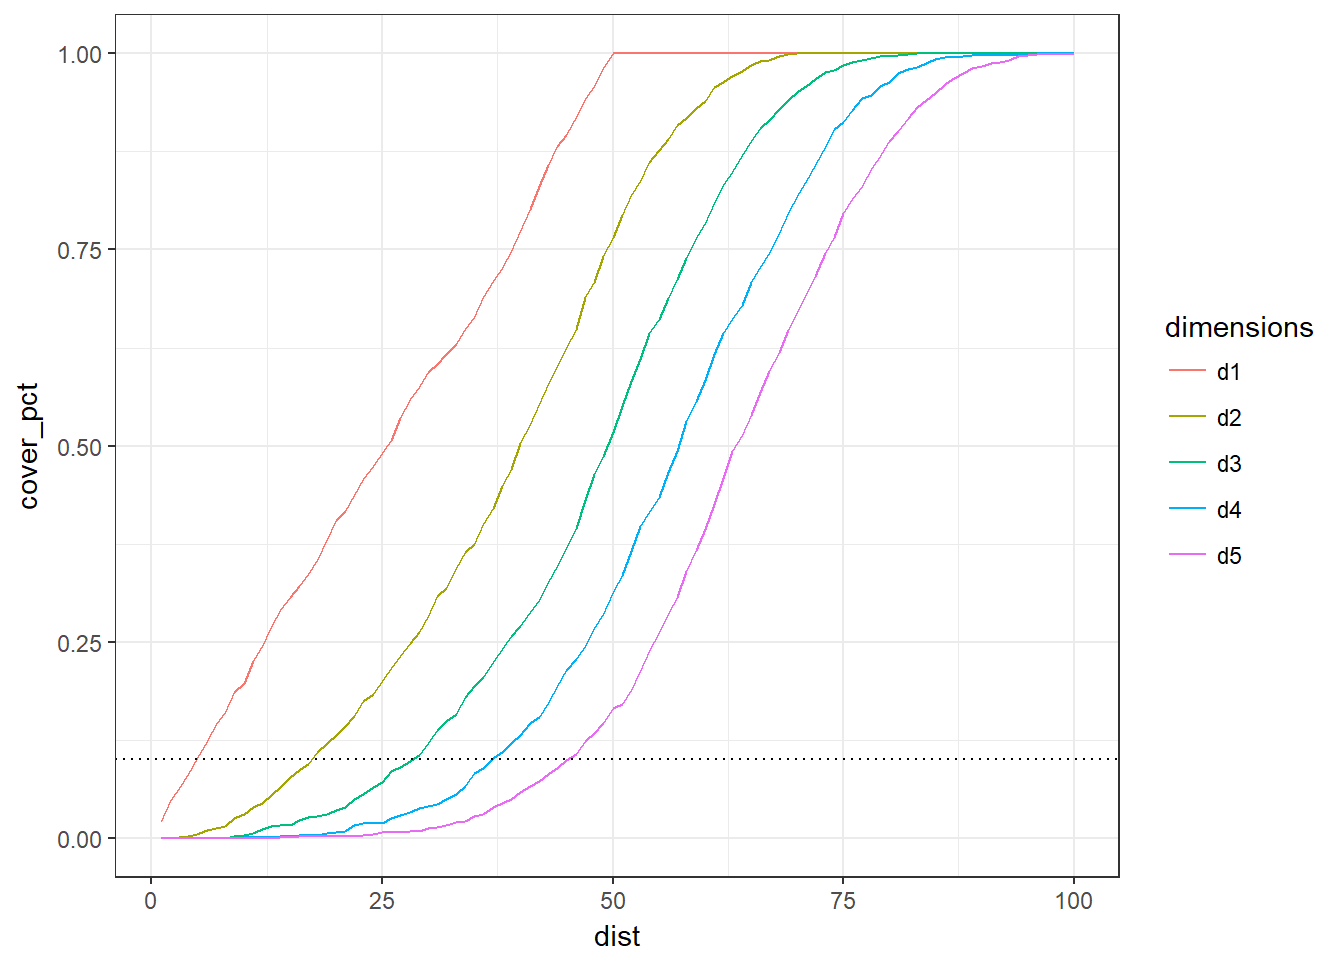
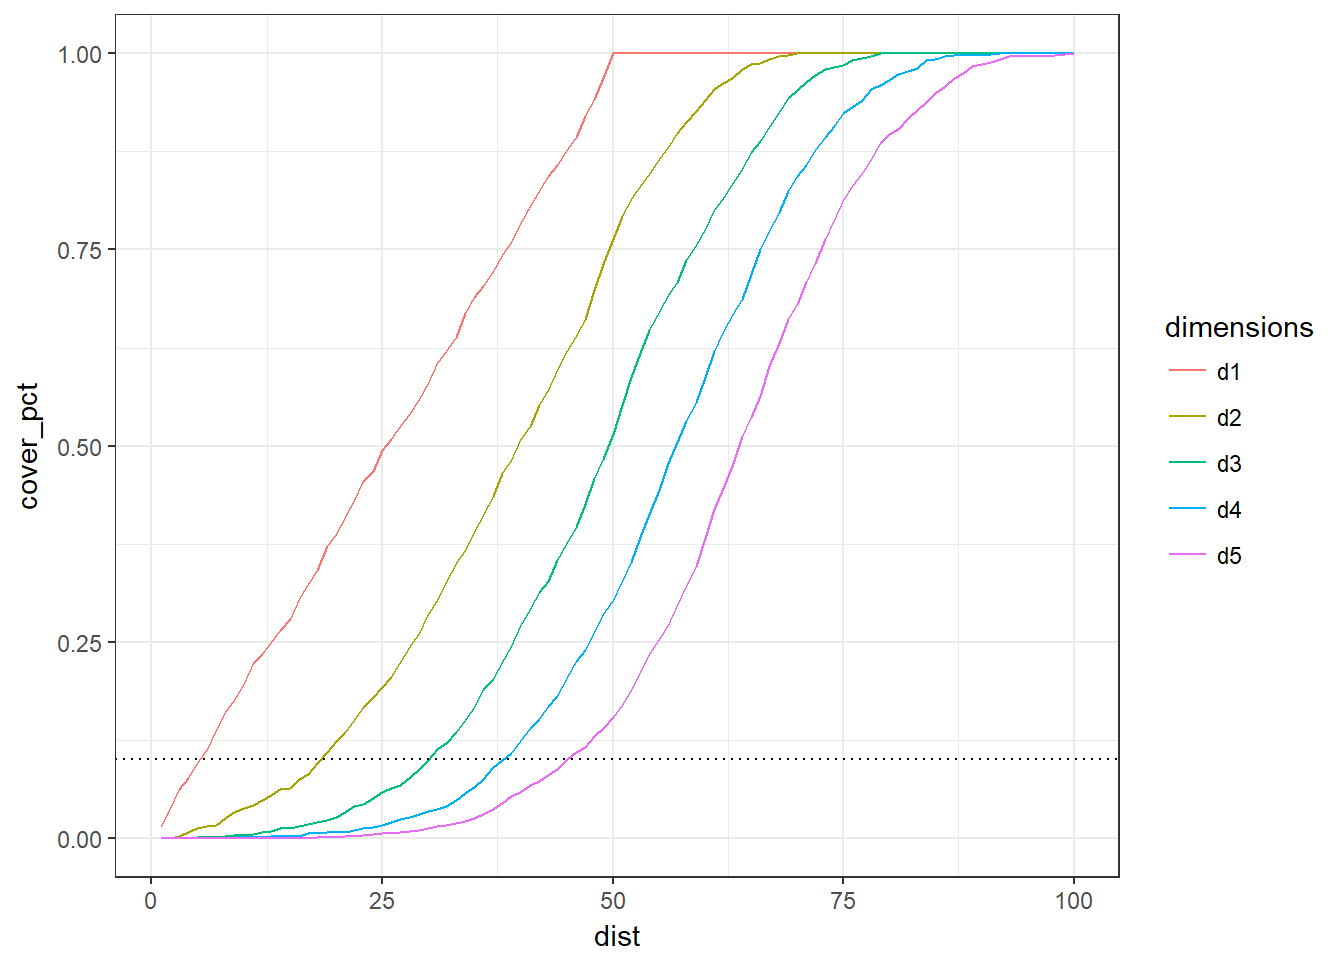
updating site with new post

diff --git a/content/post/2018-01-16-ploting-your-mtb-track-with-r.html b/content/post/2018-01-16-ploting-your-mtb-track-with-r.html
@@ -3,9 +3,9 @@ title: "Ploting your MTB track with R"
 author: "Giuliano Sposito"
 date: '2018-01-16'
 coverImage: /images/mtb_cover.jpg
-disqusIdentifier: rstatreadingtcxfiles
+disqusIdentifier: rstatplottcxtrack
 metaAlignment: center
-slug: reading-your-run-and-mtb-tracks-with-r
+slug: ploting-your-mtb-track-with-r
 tags:
 - gps
 - workout
@@ -140,11 +140,11 @@ print(track)</code></pre>
 
 ggplot(track, aes(x=dt, y=hbpm)) + 
   geom_line(colour=&quot;red&quot;) + theme_bw() + ylim(0,max(track$hbpm))</code></pre>
-<p><img src="/post/2018-01-16-reading-your-run-and-mtb-tracks-with-r_files/figure-html/hearBeatPlot-1.png" width="672" /></p>
+<p><img src="/post/2018-01-16-ploting-your-mtb-track-with-r_files/figure-html/hearBeatPlot-1.png" width="672" /></p>
 <pre class="r"><code>ggplot(track) +
   geom_area(aes(x = dt, y = alt), fill=&quot;blue&quot;, stat=&quot;identity&quot;) +
   theme_bw() </code></pre>
-<p><img src="/post/2018-01-16-reading-your-run-and-mtb-tracks-with-r_files/figure-html/plotAlt-1.png" width="672" /></p>
+<p><img src="/post/2018-01-16-ploting-your-mtb-track-with-r_files/figure-html/plotAlt-1.png" width="672" /></p>
 </div>
 <div id="ploting-the-track" class="section level2">
 <h2>Ploting the track</h2>
@@ -155,7 +155,7 @@ ggplot(track, aes(x=lon, y=lat)) +
   scale_colour_gradientn(colours = terrain.colors(10)) + # color scale
   coord_fixed() + # to keep the aspect ratio
   theme_void() # removint axis</code></pre>
-<p><img src="/post/2018-01-16-reading-your-run-and-mtb-tracks-with-r_files/figure-html/plotTrack-1.png" width="672" /></p>
+<p><img src="/post/2018-01-16-ploting-your-mtb-track-with-r_files/figure-html/plotTrack-1.png" width="672" /></p>
 <p>That’s cool, we extract the GPS path from TCX file and plot them with a couple of lines, just remaining plot over a map, and this is easy too, using <code>ggmap</code>package.</p>
 </div>
 <div id="ploting-over-a-map" class="section level2">
@@ -174,7 +174,7 @@ gmap &lt;- get_map( location=bbox, maptype = &quot;terrain&quot;, source=&quot;g
 
 # we can see the map obtained
 ggmap(gmap)</code></pre>
-<p><img src="/post/2018-01-16-reading-your-run-and-mtb-tracks-with-r_files/figure-html/mapBackground-1.png" width="672" /></p>
+<p><img src="/post/2018-01-16-ploting-your-mtb-track-with-r_files/figure-html/mapBackground-1.png" width="672" /></p>
 <p>Once with the map background in hands, we just plot the track over it, changing the color scale to improve the contrast.</p>
 <pre class="r"><code># now the ggmap is the base o ggplot
 ggmap(gmap) +
@@ -183,7 +183,7 @@ ggmap(gmap) +
   scale_colour_gradientn(colours = topo.colors(10)) + # color scale
   coord_fixed() + # to keep the aspect ratio
   theme_void() # removint axis</code></pre>
-<p><img src="/post/2018-01-16-reading-your-run-and-mtb-tracks-with-r_files/figure-html/plotOverMap-1.png" width="672" /></p>
+<p><img src="/post/2018-01-16-ploting-your-mtb-track-with-r_files/figure-html/plotOverMap-1.png" width="672" /></p>
 </div>
 <div id="conclusion" class="section level2">
 <h2>Conclusion</h2>

diff --git a/content/post/2018-01-15-curse-of-dimensionality.html b/content/post/2018-01-15-curse-of-dimensionality.html
@@ -43,7 +43,7 @@ ggplot(dt, aes(x=x, y=y)) + geom_point() + coord_fixed(ratio = 1) + theme_bw()</
 <pre class="r"><code>x_dist &lt;- quantile(x=dt$x,probs = .1)
 x_dist</code></pre>
 <pre><code>##      10% 
-## 8.265947</code></pre>
+## 9.340824</code></pre>
 <p>We can see that in one dimension the size of the range necessary to get 10% of the data points are around 10% of this dimensions (uniform distributed)</p>
 <pre class="r"><code># mark the points in this range
 dt %&gt;%
@@ -65,11 +65,11 @@ ggplot(dt, aes(x=x, y=y, colour=in_interval)) +
 dt %&gt;%
   filter(in_interval==T) %&gt;%
   nrow()</code></pre>
-<pre><code>## [1] 83</code></pre>
+<pre><code>## [1] 92</code></pre>
 </div>
 <div id="two-dimension" class="section level2">
 <h2>Two Dimension</h2>
-<p>Now, lets see the case in two dimensions, first we’ll use the same interval found in one dimension case: 8.2659468, but in this case, we need to check points around <code>(x=50, y=50)</code>.</p>
+<p>Now, lets see the case in two dimensions, first we’ll use the same interval found in one dimension case: 9.3408242, but in this case, we need to check points around <code>(x=50, y=50)</code>.</p>
 <pre class="r"><code>dt %&gt;%
   mutate(
     in_interval = case_when(
@@ -91,8 +91,8 @@ dt %&gt;%
 sel_points_pct &lt;- sel_points/total_points
 
 sel_points</code></pre>
-<pre><code>## [1] 17</code></pre>
-<p>In fact, with the new distance, we can only reach 1.7 % of the data points adding one dimension. Can we find how much be the size of the radius to get 10% of the points?</p>
+<pre><code>## [1] 33</code></pre>
+<p>In fact, with the new distance, we can only reach 3.3 % of the data points adding one dimension. Can we find how much be the size of the radius to get 10% of the points?</p>
 <pre class="r"><code># percents 
 dists &lt;- 1:100
 
@@ -122,8 +122,8 @@ print(twoDim10pct)</code></pre>
 <pre><code>## # A tibble: 1 x 3
 ##    dist points    pct
 ##   &lt;int&gt;  &lt;int&gt;  &lt;dbl&gt;
-## 1    17     94 0.0940</code></pre>
-<p>The distance to get 10% of data points are 17 in size, about twice the original range in one dimension.</p>
+## 1    18     95 0.0950</code></pre>
+<p>The distance to get 10% of data points are 18 in size, about twice the original range in one dimension.</p>
 <pre class="r"><code>dt %&gt;%
   mutate(
     in_interval = case_when(
@@ -179,10 +179,10 @@ multDimCases %&gt;%
 ## # Groups: dimensions [5]
 ##   dimensions  dist
 ##   &lt;fctr&gt;     &lt;int&gt;
-## 1 d1             4
-## 2 d2            17
-## 3 d3            28
-## 4 d4            36
+## 1 d1             5
+## 2 d2            18
+## 3 d3            30
+## 4 d4            38
 ## 5 d5            45</code></pre>
 </div>
 <div id="conclusion" class="section level2">
